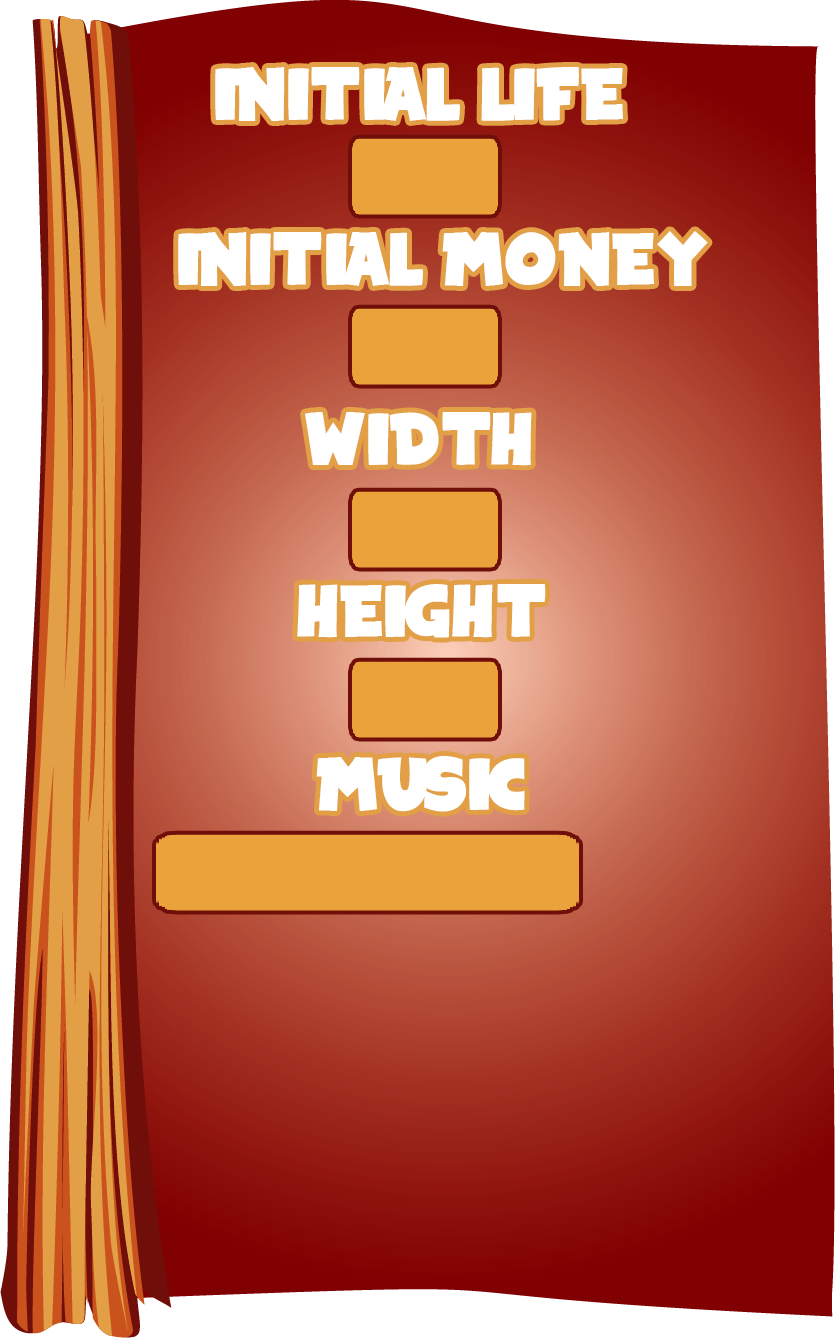
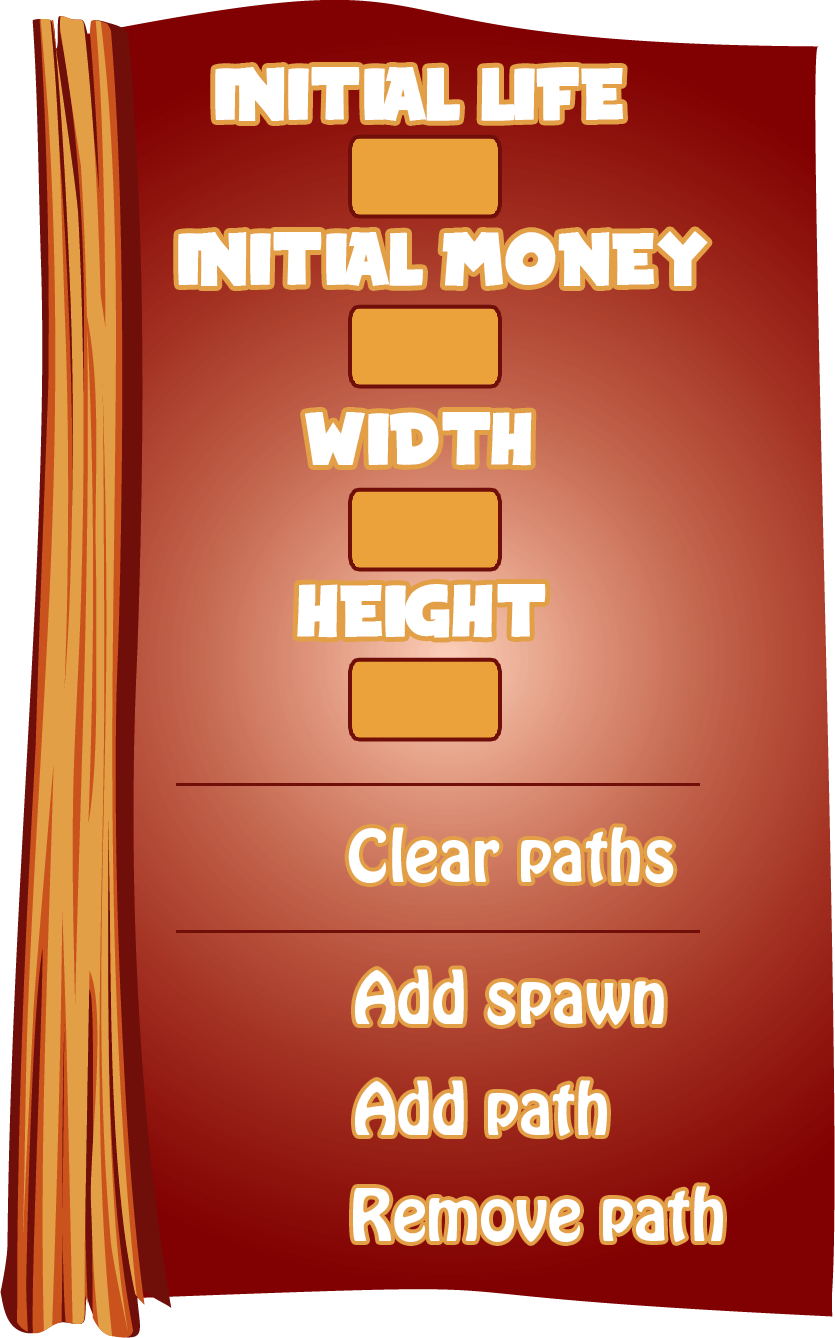
Can now create all the map. Starting working on wave management

Changed region(s): [[0.1557, 0.5516, 0.8096, 0.7661], [0.4048, 0.7967, 0.8719, 0.9499]]

diff --git a/src/warcraftTD/hud/InterfaceEditor.java b/src/warcraftTD/hud/InterfaceEditor.java
@@ -7,6 +7,8 @@ import javax.sound.sampled.LineUnavailableException;
 import javax.sound.sampled.UnsupportedAudioFileException;
 import java.awt.*;
 import java.io.IOException;
+import java.util.ArrayList;
+import java.util.List;
 
 public class InterfaceEditor extends Interface{
     private WorldEditor world;
@@ -22,9 +24,50 @@ public class InterfaceEditor extends Interface{
     private int moneyInitial;
     private Text widthText;
     private Text heightText;
-    private Text musicText;
 
+    private Button pathButton;
     private HorizontalGroupBox settingsBox;
+
+    private HorizontalGroupBox waveBox;
+    private List<Button> listWaveButton;
+    private List<Button> monstersButton;
+    private int pageWave;
+    private int pageQueue;
+
+    private Button selectedWave;
+    private Button selectedQueueInstance;
+    private Button selectedMonster;
+
+    //private List<List<QueueInstance>>
+
+    private final Text building_text;
+    private TypeBuildEditor building_type;
+
+    public enum TypeBuildEditor{
+        Spawn, Path, RemovePath, None
+    }
+
+    public TypeBuildEditor getBuilding_type() {
+        return this.building_type;
+    }
+
+    public void setSelectedWave(Button selectedWave) {
+        if(this.selectedWave!=null) this.selectedWave.setEnabled(true);
+        this.selectedWave = selectedWave;
+        this.pageQueue = 1;
+        this.setSelectedQueueInstance(null);
+        this.selectedWave.setEnabled(false);
+    }
+
+    public void setSelectedQueueInstance(Button selectedQueueInstance) {
+        if(this.selectedWave!=null) this.selectedQueueInstance.setEnabled(true);
+        this.selectedQueueInstance = selectedQueueInstance;
+        this.selectedQueueInstance.setEnabled(false);
+    }
+
+    public void setSelectedMonster(Button selectedMonster) {
+        this.selectedMonster = selectedMonster;
+    }
 
     public InterfaceEditor(WorldEditor world) throws UnsupportedAudioFileException, IOException, LineUnavailableException {
         this.world = world;
@@ -66,9 +109,6 @@ public class InterfaceEditor extends Interface{
         btn = new Button(new Position(0.31, 0.48), 0.055, 0.055, "images/button_downgrade.png", "images/button_downgrade_hover.png", "downgradeHeight", this);
         this.settingsBox.addHUDElement(btn);
 
-        btn = new Button(new Position(0.79, 0.35), 0.05, 0.065, "images/save_button_editor.png", "images/save_button_editor_hover.png", "musicload", this);
-        this.settingsBox.addHUDElement(btn);
-
         this.lifeText = new Text(new Position(0.51, 0.865), 0.0, 0.0, new Font("Arial", Font.BOLD, 30),this, this.lifeInitial+"");
         this.settingsBox.addHUDElement(this.lifeText);
         this.moneyText = new Text(new Position(0.51, 0.735), 0.0, 0.0, new Font("Arial", Font.BOLD, 30),this, this.moneyInitial+"");
@@ -77,27 +117,118 @@ public class InterfaceEditor extends Interface{
         this.settingsBox.addHUDElement(this.widthText);
         this.heightText = new Text(new Position(0.51, 0.475), 0.0, 0.0, new Font("Arial", Font.BOLD, 30),this, this.world.getNbSquareY()+"");
         this.settingsBox.addHUDElement(this.heightText);
-        this.musicText = new Text(new Position(0.44, 0.345), 0.0, 0.0, new Font("Arial", Font.BOLD, 30),this, "none");
-        this.settingsBox.addHUDElement(this.musicText);
+
+        btn = new Button(new Position(0.28, 0.25), 0.06, 0.07, "images/add_firstpath_button.png", "images/add_firstpath_button_hover.png", "AddSpawn", this);
+        this.settingsBox.addHUDElement(btn);
+        this.pathButton = new Button(new Position(0.28, 0.17), 0.06, 0.07, "images/add_path_button.png", "images/add_path_button_hover.png", "AddPath", this);
+        this.settingsBox.addHUDElement(this.pathButton);
+        this.pathButton.setEnabled(false);
+        btn = new Button(new Position(0.28, 0.09), 0.06, 0.07, "images/clear_path_button.png", "images/clear_path_button_hover.png", "RemovePath", this);
+        this.settingsBox.addHUDElement(btn);
+        btn = new Button(new Position(0.28, 0.36), 0.06, 0.07, "images/close_button.png", "images/close_button_hover.png", "ClearPath", this);
+        this.settingsBox.addHUDElement(btn);
+
+        this.building_text = new Text(new Position(0.5, 0.07), 0.0, 0.0, new Font("Arial", Font.BOLD, 40), this, "Right click to cancel !");
+        this.building_text.setVisible(false);
+        this.getListElements().add(this.building_text);
+        this.building_type = TypeBuildEditor.None;
+
+        this.waveBox = new HorizontalGroupBox(new Position(0.5,0.5), 1.0,1.0,this, "images/WavePanel.png");
+        this.getListElements().add(this.waveBox);
+
+        this.listWaveButton = new ArrayList<Button>();
+        this.monstersButton = new ArrayList<Button>();
+        this.pageWave = 1;
+        this.pageQueue = 1;
+
+        for(int i = 0;i<10; i++){
+            btn = new Button(new Position(0.727+(i%5)*0.045, 0.627-(i>4 ? 0.08 : 0.0)), 0.04, 0.06, "images/editor/button_monster_"+(i+1)+".png", "images/editor/button_monster_"+(i+1)+"_hover.png", "monster", this);
+            this.waveBox.addHUDElement(btn);
+            this.monstersButton.add(btn);
+        }
+
+        btn = new Button(new Position(0.26, 0.3), 0.08, 0.1, "images/button_upgrade.png", "images/button_upgrade_hover.png", "addWave", this);
+        this.waveBox.addHUDElement(btn);
+        btn = new Button(new Position(0.18, 0.3), 0.08, 0.1, "images/button_downgrade.png", "images/button_downgrade_hover.png", "removeWave", this);
+        this.waveBox.addHUDElement(btn);
+
+        btn = new Button(new Position(0.58, 0.3), 0.06, 0.08, "images/button_upgrade.png", "images/button_upgrade_hover.png", "addQueue", this);
+        this.waveBox.addHUDElement(btn);
+        btn = new Button(new Position(0.52, 0.3), 0.06, 0.08, "images/button_downgrade.png", "images/button_downgrade_hover.png", "removeQueue", this);
+        this.waveBox.addHUDElement(btn);
+
+        btn = new Button(new Position(0.88, 0.46), 0.05, 0.07, "images/button_upgrade.png", "images/button_upgrade_hover.png", "addQueue", this);
+        this.waveBox.addHUDElement(btn);
+        btn = new Button(new Position(0.76, 0.46), 0.05, 0.07, "images/button_downgrade.png", "images/button_downgrade_hover.png", "removeQueue", this);
+        this.waveBox.addHUDElement(btn);
+
+        btn = new Button(new Position(0.39, 0.78), 0.08, 0.1, "images/editor/nextPage_button.png", "images/editor/nextPage_button_hover.png", "nextPageWave", this);
+        this.waveBox.addHUDElement(btn);
+        btn = new Button(new Position(0.06, 0.78), 0.08, 0.1, "images/editor/previousPage_button.png", "images/editor/previousPage_button_hover.png", "previousPageWave", this);
+        this.waveBox.addHUDElement(btn);
+
+        btn = new Button(new Position(0.64, 0.78), 0.06, 0.08, "images/editor/nextPage_button.png", "images/editor/nextPage_button_hover.png", "nextPageQueue", this);
+        this.waveBox.addHUDElement(btn);
+        btn = new Button(new Position(0.46, 0.78), 0.06, 0.08, "images/editor/previousPage_button.png", "images/editor/previousPage_button_hover.png", "previousPageQueue", this);
+        this.waveBox.addHUDElement(btn);
+
+        btn = new Button(new Position(0.5, 0.15), 0.15, 0.09, "images/editor/exitPanel.png", "images/editor/exitPanel_hover.png", "closeWavePanel", this);
+        this.waveBox.addHUDElement(btn);
+
+    }
+
+    public void startBuilding(TypeBuildEditor type){
+        this.settingsBox.HideBox();
+        this.building_text.setVisible(true);
+        this.building_type = type;
+    }
+
+    public void stopBuilding(){
+        this.settingsBox.ShowBox(0.0,0.0);
+        this.building_text.setVisible(false);
+        this.building_type = TypeBuildEditor.None;
+    }
+
+    public void toggleBottomToolbar(boolean visible){
+        this.settingsBtn.setVisible(visible);
+        this.waveBtn.setVisible(visible);
+        this.saveBtn.setVisible(visible);
+        this.exitBtn.setVisible(visible);
+    }
+
+    public void refreshPositionWavesButton(){
+        for(int i = 0;i<this.listWaveButton.size();i++){
+            for(int j = 0;j<=(this.listWaveButton.size()-1)/15;j++){
+
+            }
+        }
+    }
+
+    @Override
+    public Boolean onClick(double mouseX, double mouseY, int mouseButton) throws UnsupportedAudioFileException, IOException, LineUnavailableException {
+        if(mouseButton==3 && !building_type.equals(TypeBuildEditor.None)){
+            stopBuilding();
+            return true;
+        }
+
+        return super.onClick(mouseX, mouseY, mouseButton);
+    }
+
+    public Button getPathButton() {
+        return this.pathButton;
     }
 
     @Override
     public void makeAction(String action, Element from) {
         switch (action) {
             case "settings":
-                this.settingsBtn.setVisible(false);
-                this.waveBtn.setVisible(false);
-                this.saveBtn.setVisible(false);
-                this.exitBtn.setVisible(false);
+                this.toggleBottomToolbar(false);
                 this.world.setNeedReleaseMouse(true);
 
                 this.settingsBox.ShowBox(0.0,0.0);
                 break;
             case "ClosingSettings":
-                this.settingsBtn.setVisible(true);
-                this.waveBtn.setVisible(true);
-                this.saveBtn.setVisible(true);
-                this.exitBtn.setVisible(true);
+                this.toggleBottomToolbar(true);
                 this.world.setNeedReleaseMouse(true);
 
                 this.settingsBox.HideBox();
@@ -112,9 +243,15 @@ public class InterfaceEditor extends Interface{
                 break;
             case "downgradeWidth":
                 if(this.world.getNbSquareX()>5){
-                    this.world.setNbSquareX(this.world.getNbSquareX()-1);
-                    this.world.refreshSquareSize();
-                    this.widthText.setText(this.world.getNbSquareX()+"");
+                    double maxWidth = 0.0;
+                    for(Position p : this.world.getPaths()){
+                        if(p.getX()>maxWidth) maxWidth = p.getX();
+                    }
+                    if(this.world.getNbSquareX()>maxWidth+1) {
+                        this.world.setNbSquareX(this.world.getNbSquareX() - 1);
+                        this.world.refreshSquareSize();
+                        this.widthText.setText(this.world.getNbSquareX() + "");
+                    }
                 }
                 this.world.setNeedReleaseMouse(true);
                 break;
@@ -128,9 +265,16 @@ public class InterfaceEditor extends Interface{
                 break;
             case "downgradeHeight":
                 if(this.world.getNbSquareY()>5){
-                    this.world.setNbSquareY(this.world.getNbSquareY()-1);
-                    this.world.refreshSquareSize();
-                    this.heightText.setText(this.world.getNbSquareY()+"");
+                    double maxHeight = 0.0;
+                    for(Position p : this.world.getPaths()){
+                        if(p.getY()>maxHeight) maxHeight = p.getY();
+                    }
+                    if(this.world.getNbSquareY()>maxHeight+1){
+                        this.world.setNbSquareY(this.world.getNbSquareY()-1);
+                        this.world.refreshSquareSize();
+                        this.heightText.setText(this.world.getNbSquareY()+"");
+                    }
+
                 }
                 this.world.setNeedReleaseMouse(true);
                 break;
@@ -160,6 +304,43 @@ public class InterfaceEditor extends Interface{
                     this.lifeInitial-=1;
                     this.lifeText.setText(this.lifeInitial+"");
                 }
+                this.world.setNeedReleaseMouse(true);
+                break;
+            case "ClearPath":
+                this.world.setPaths(new ArrayList<Position>());
+                this.world.setNeedReleaseMouse(true);
+                this.pathButton.setEnabled(false);
+                break;
+            case "AddSpawn":
+                if(this.world.getPaths().size()<=1){
+                    this.startBuilding(TypeBuildEditor.Spawn);
+                }
+                this.world.setNeedReleaseMouse(true);
+                break;
+            case "AddPath":
+                if(this.world.getPaths().size()>=1){
+                    this.startBuilding(TypeBuildEditor.Path);
+                }
+                this.world.setNeedReleaseMouse(true);
+                break;
+            case "RemovePath":
+                if(this.world.getPaths().size()>=1){
+                    this.startBuilding(TypeBuildEditor.RemovePath);
+                }
+                this.world.setNeedReleaseMouse(true);
+                break;
+            case "wave":
+                toggleBottomToolbar(false);
+                this.waveBox.ShowBox(1.0,0.0);
+                this.world.setNeedReleaseMouse(true);
+                break;
+            case "addWave":
+                break;
+            case "removeWave":
+                break;
+            case "closeWavePanel":
+                this.waveBox.HideBox();
+                this.toggleBottomToolbar(true);
                 this.world.setNeedReleaseMouse(true);
                 break;
         }

diff --git a/src/warcraftTD/WorldEditor.java b/src/warcraftTD/WorldEditor.java
@@ -1,17 +1,13 @@
 package warcraftTD;
 
 import warcraftTD.hud.InterfaceEditor;
-import warcraftTD.hud.InterfaceJeu;
 import warcraftTD.libs.StdDraw;
-import warcraftTD.towers.Tower;
 import warcraftTD.utils.Position;
-import warcraftTD.utils.Sound;
 
 import javax.sound.sampled.LineUnavailableException;
 import javax.sound.sampled.UnsupportedAudioFileException;
+import java.awt.*;
 import java.io.IOException;
-import java.lang.reflect.Constructor;
-import java.lang.reflect.InvocationTargetException;
 import java.util.ArrayList;
 import java.util.Iterator;
 import java.util.List;
@@ -77,8 +73,36 @@ public class WorldEditor {
     public void drawMouse() {
         double normalizedX = (int) (StdDraw.mouseX() / this.squareWidth) * this.squareWidth + this.squareWidth / 2;
         double normalizedY = (int) (StdDraw.mouseY() / this.squareHeight) * this.squareHeight + this.squareHeight / 2;
+        Position mousep = new Position((int) ((normalizedX * this.nbSquareX)), (int) ((normalizedY * this.nbSquareY)));
 
-        StdDraw.picture(normalizedX, normalizedY, "images/Select_tile.png", this.squareWidth, this.squareHeight);
+        switch (this.HUD.getBuilding_type()){
+            case None:
+                break;
+            case Path:
+                if(!this.paths.contains(mousep)){
+                    if(((this.paths.get(this.paths.size()-1).equals(new Position(mousep.getX()+1, mousep.getY())) ? 1 : 0) + (this.paths.get(this.paths.size()-1).equals(new Position(mousep.getX()-1, mousep.getY())) ? 1 : 0) + (this.paths.get(this.paths.size()-1).equals(new Position(mousep.getX(), mousep.getY()+1)) ? 1 : 0) + (this.paths.get(this.paths.size()-1).equals(new Position(mousep.getX(), mousep.getY()-1)) ? 1 : 0) == 1)){
+                        if(((this.paths.contains(new Position(mousep.getX()+1, mousep.getY())) ? 1 : 0) + (this.paths.contains(new Position(mousep.getX()-1, mousep.getY())) ? 1 : 0) + (this.paths.contains(new Position(mousep.getX(), mousep.getY()+1)) ? 1 : 0) + (this.paths.contains(new Position(mousep.getX(), mousep.getY()-1)) ? 1 : 0) == 1)) {
+                            StdDraw.picture(normalizedX, normalizedY, "images/Select_tile.png", this.squareWidth, this.squareHeight);
+                            return;
+                        }
+                    }
+                    StdDraw.picture(normalizedX, normalizedY, "images/Select_tile_unavailable.png", this.squareWidth, this.squareHeight);
+                } else {
+                    StdDraw.picture(normalizedX, normalizedY, "images/Select_tile_unavailable.png", this.squareWidth, this.squareHeight);
+                }
+                break;
+            case RemovePath:
+                if(paths.size()>0 && (this.paths.get(0).equals(mousep) || this.paths.get(this.paths.size()-1).equals(mousep))){
+                    StdDraw.picture(normalizedX, normalizedY, "images/Select_tile_unavailable.png", this.squareWidth, this.squareHeight);
+                }
+                break;
+            case Spawn:
+                if(!this.paths.contains(mousep)){
+                    StdDraw.picture(normalizedX, normalizedY, "images/Select_tile.png", this.squareWidth, this.squareHeight);
+                }
+                break;
+        }
+
     }
 
     public void drawBackground() {
@@ -184,9 +208,17 @@ public class WorldEditor {
 		 	p = i.next();
 			 double coorX = p.getX() / nbSquareX + (squareWidth/2);
 			 double coorY = p.getY() / nbSquareY + (squareHeight/2);
+             StdDraw.setPenColor(StdDraw.YELLOW);
 			 StdDraw.filledRectangle(coorX, coorY, squareWidth / 2, squareHeight / 2);
+			 StdDraw.setPenColor(StdDraw.PRINCETON_ORANGE);
+             StdDraw.rectangle(coorX, coorY, squareWidth/2 , squareHeight/2);
 			 //StdDraw.picture(coorX, coorY, "images/sand.jpg", squareWidth, squareHeight);
 		 }
+		 if(this.paths.size()>0){
+             StdDraw.setPenColor(StdDraw.BLACK);
+             StdDraw.setFont(new Font("Arial", Font.BOLD, 30));
+		     StdDraw.text(this.paths.get(0).getX()/nbSquareX + squareWidth/2,this.paths.get(0).getY()/nbSquareY + squareHeight/2, "Spawn");
+         }
     }
 
     public int update() {
@@ -203,7 +235,38 @@ public class WorldEditor {
         Position p = new Position(normalizedX, normalizedY);
         Position mousep = new Position((int) ((normalizedX * this.nbSquareX)), (int) ((normalizedY * this.nbSquareY)));
 
-        this.HUD.onClick(x,y,mouseButton);
+        if(this.HUD.onClick(x,y,mouseButton)) return;
+
+        switch (this.HUD.getBuilding_type()){
+            case None:
+                break;
+            case Path:
+                if(!this.paths.contains(mousep)){
+                    if(((this.paths.get(this.paths.size()-1).equals(new Position(mousep.getX()+1, mousep.getY())) ? 1 : 0) + (this.paths.get(this.paths.size()-1).equals(new Position(mousep.getX()-1, mousep.getY())) ? 1 : 0) + (this.paths.get(this.paths.size()-1).equals(new Position(mousep.getX(), mousep.getY()+1)) ? 1 : 0) + (this.paths.get(this.paths.size()-1).equals(new Position(mousep.getX(), mousep.getY()-1)) ? 1 : 0) == 1)){
+                        if(((this.paths.contains(new Position(mousep.getX()+1, mousep.getY())) ? 1 : 0) + (this.paths.contains(new Position(mousep.getX()-1, mousep.getY())) ? 1 : 0) + (this.paths.contains(new Position(mousep.getX(), mousep.getY()+1)) ? 1 : 0) + (this.paths.contains(new Position(mousep.getX(), mousep.getY()-1)) ? 1 : 0) == 1)) {
+                            this.paths.add(mousep);
+                        }
+                    }
+                }
+                break;
+            case RemovePath:
+                if(paths.size()>0 && (this.paths.get(0).equals(mousep) || this.paths.get(this.paths.size()-1).equals(mousep))){
+                    this.paths.remove(mousep);
+                    if(paths.size()==0) this.getHUD().getPathButton().setEnabled(false);
+                }
+                break;
+            case Spawn:
+                if(!this.paths.contains(mousep)){
+                    if(this.paths.size()==0){
+                        this.paths.add(mousep);
+                    } else {
+                        this.paths = new ArrayList<Position>();
+                        this.paths.add(mousep);
+                    }
+                    this.getHUD().getPathButton().setEnabled(true);
+                }
+                break;
+        }
     }
 
     public void run() throws UnsupportedAudioFileException, IOException, LineUnavailableException {
